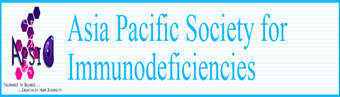
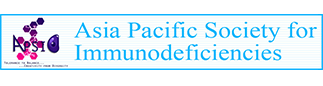
19号上午试运行修改意见

diff --git a/src/view/home/Home.vue b/src/view/home/Home.vue
@@ -53,11 +53,11 @@
               <span>January 20, 2018</span>
               <span>Dear Friends,</span>
               <span style="display: block;margin-top: 1rem">Our Children’s Hospital of Chongqing Medical University has been given the great honor to host the 2th Scientific Congress of Asian Pacific Society for Immunodeficiencies from May 7th to 8th 2018.</span>
-              <span style="display: block;margin-top: 1rem">Primary immunodeficiency disease (PID) is one of the most challenging disease in children. The children with PIDs need care from pediatrician in different field with deep cooperation. So, topic of the 2th Scientific Congress of APSID is Primary Immunodeficiency Diseases and Beyond... </span>
+              <span style="display: block;margin-top: 1rem">Primary immunodeficiency disease (PID) is one of the most challenging disease in children. The children with PIDs need care from pediatrician in different field with deep cooperation. So, topic of the 2th Scientific Congress of APSID is <i style="font-family: 'Helvetica Neue';"><b>Primary Immunodeficiency Diseases and Beyond...</b></i></span>
               <span style="display: block;margin-top: 1rem">We are now planning an exciting scientific program for promoting treatment and research across Primary Immunodeficiency Disease(PID) and associated field such as Hematology, Rheumatology, Allergy, Respiratory diseases and Infection diseases. Accordingly the congress consists of four symposiums: 1) The main Symposium for PID (7th May); 2) Rheumatology and Allergic Diseases (8th May); 3) Respiratory and Infectious Disease (8th May); 4) Hematology and Transplantation (8th May). Professor Hans D. Ochs, Professor Adrian Thrasher, Professor Andrew J Cant, Professor Yu-lung LAU, Professor Surjit Singh, Kohsuke Imai, Professor Professor Alexei Grom, Professor Angelo Ravelli, Professor Lisa Westerberg, Professor Wenwei Tu, Professor Huamei Forsman, Professor Wenxia Song, Professor Kunling Shen and Professor Xiaodong Zhao et al. will give us excellent lectures.</span>
             </div>
             <div class="text-content text-content-right">
-              <span style="display: block;margin-top: 1rem">To training the junior pediatrician, The APSID 2018 Summer School will be inaugurated on the 5th~6th May 2018 at the same hotel, please kindly find the link.</span>
+              <span style="display: block;margin-top: 1rem">To training the junior pediatrician, The APSID 2018 Summer School will be inaugurated on the 5th~6th May 2018 at the same hotel, please kindly find the link(http://www.apsid2018school.com/en/).</span>
               <span style="display: block;margin-top: 1rem">We shall constantly update the web page to inform you how the scientific program is being developed.  Please inform us your suggestions in the next few months.</span>
               <span style="display: block;margin-top: 1rem">As Executive Chief of Committee for the 2nd Scientific Congress of APSID, I sincerely invite you to come to the APSID 2018 Scientific Congress to promote excellence in PID. Please mark the dates in your diary and Chongqing welcomes you!</span>
               <span
@@ -74,7 +74,7 @@
       <el-row>
         <el-col :span="24">
           <div class="text-announcement">
-            <span>Website Link</span>
+            <span>Website Links</span>
           </div>
           <div class="link">
             <div class="link-one">
@@ -273,7 +273,7 @@
   }
 
   .home-text {
-    margin-top: 2rem;
+    margin-top: 1.6rem;
     background: #f15a22;
     background-color: rgba(241, 90, 34, 0.86);
     min-height: 200px;
@@ -287,6 +287,7 @@
   .text-titel h1 {
     color: #ffffff;
     font-size: 1.5rem;
+    font-family: Helvetica;
   }
 
   .text-content-left {
@@ -315,7 +316,7 @@
 
   .link {
     width: 100%;
-    margin-top: 2rem;
+    margin-top: 1.6rem;
   }
 
   .link-one {

diff --git a/src/view/register/RegistrateFee.vue b/src/view/register/RegistrateFee.vue
@@ -22,20 +22,21 @@
           </el-table>
           <div class="fee-box">
             <h3>Registration Fee</h3>
-            <span style="line-height: 2rem; margin-left:0.8rem;float:left;display:block;color: red">*</span>
+            <span style="line-height: 2rem; margin-left:0.8rem;margin-right:0.4rem;float:left;display:block;color: red">*</span>
             <p>
               Registration fee includes registration fee, textbook materials and light lunch costs，While hotel accommodation is not covered.</p>
           </div>
           <div class="fee-box">
             <h3>Bank Draft</h3>
-            <p>1.Account Name：Chongqing swan international tourism co., LTD</p>
-            <p>2.Account No : 113004875475</p>
-            <p>3.Bank Name：The bank of China chongqing branch sales department</p>
-            <p>4.Bank Address :Zhongshan 218 all the way yuzhong district of chongqing</p>
-            <p>5.Swift Code ：BKCHCNBJ59A</p>
+            <P>Registration payment by Bank transfer or on-site payment, Bank transfer is recommended.</P>
+            <p style="padding-left: 2rem;">1.Account Name：Chongqing swan international tourism co., LTD</p>
+            <p style="padding-left: 2rem;">2.Account No : 113004875475</p>
+            <p style="padding-left: 2rem;">3.Bank Name：The bank of China chongqing branch sales department</p>
+            <p style="padding-left: 2rem;">4.Bank Address :Zhongshan 218 all the way yuzhong district of chongqing</p>
+            <p style="padding-left: 2rem;">5.Swift Code ：BKCHCNBJ59A</p>
             <h3>Attention</h3>
             <p>
-              remittors please be sure to indicate in the remittance column "registration NO. +APSID+name" and send cash remittance by the photo file to e-mail anyf82@aliyun.com or zengni-xiao.mao@163.com.</p>
+              remittors please be sure to indicate in the remittance column "Registration Code+APSID+name" and send cash remittance by the photo file to e-mail anyf82@aliyun.com or zengni-xiao.mao@163.com.</p>
           </div>
         </el-card>
       </el-col>
@@ -59,6 +60,10 @@
           {
             RegistrationTime: 'Between 31 March and 6 May',
             RegistrationPayment: 'RMB ¥2000'
+          },
+          {
+            RegistrationTime: 'Attend both summer school and congress',
+            RegistrationPayment: 'RMB ¥2000(summer school)+¥1000(congress)'
           }
         ]
       }

diff --git a/src/view/welcomePage/Speakers.vue b/src/view/welcomePage/Speakers.vue
@@ -98,10 +98,12 @@
               <img src="../../../static/img/speakers/yangxiqiang.jpg"/>
             </div>
             <div class="content-main-font">
-              <h2>Prof.Yiqiang Yang</h2>
-              <span>科教文卫体总工会全国师德优秀个人</span>
-              <span>重庆市优秀专业技术人才</span>
-              <span>亚洲太平洋地区杰出儿科医生</span>
+              <h2>Prof.Xiqiang Yang</h2>
+              <span>Professor of Pediatrics</span>
+              <span>Children’s Hospital,</span>
+              <span>Chonqing Medical University</span>
+              <span>Pre-President</span>
+              <span>Chinese Society of Pediatric Immunology China</span>
             </div>
           </div>
           <div class="content-main">
@@ -136,7 +138,7 @@
               <img src="../../../static/img/speakers/Prof.LisaWesterberg.jpg"/>
             </div>
             <div class="content-main-font">
-              <h2>Prof. Lisa S. Westerberg</h2>
+              <h2>Prof.Lisa S. Westerberg</h2>
               <span>Professor, karolinska institute in Stockholm</span>
               <span>Reviewers of J Exp Med, Blood</span>
             </div>
@@ -157,7 +159,7 @@
               <img src="../../../static/img/speakers/WWTU.jpg"/>
             </div>
             <div class="content-main-font">
-              <h2>Prof. Wenwei TU</h2>
+              <h2>Prof.Wenwei TU</h2>
               <span>Professor Department of Paediatrics & Adolescent Medicine</span>
               <span>Li Ka Shing Faculty of Medicine</span>
               <span>The University of Hong Kong</span>
@@ -179,7 +181,7 @@
               <img src="../../../static/img/speakers/wenxiasong.jpg"/>
             </div>
             <div class="content-main-font">
-              <h2>Prof. Wenxia Song</h2>
+              <h2>Prof.Wenxia Song</h2>
               <span>Professor, Department of cell biology and molecular genetics, University of Maryland professor</span>
               <span>The national major projects of the judges</span>
               <span>The American heart association scientific research funds of the judges team leader</span>

diff --git a/src/components/base/Hearder.vue b/src/components/base/Hearder.vue
@@ -4,10 +4,10 @@
       <el-col :span="24">
         <el-col :span="3" :offset="2">
           <div class="heard-box-logo-left">
-            <img src="../../../static/img/APSID-LOGO.png"/>
+            <img src="../../../static/img/apsid.png"/>
           </div>
         </el-col>
-        <el-col :span="10">
+        <el-col :span="10" :pull="1">
             <div class="heard-box-font heard-box2">
               <span>The 2nd Scientific Congress of Asia-Pacific </span>
             </div>
@@ -16,9 +16,9 @@
               <span>Society for Immunodeficiencies</span>
             </div>
         </el-col>
-        <el-col :span="4">
+        <el-col :span="4" :pull="1">
           <div class="heard-box-logo-right">
-            <img src="../../../static/img/apsid.png"/>
+            <img src="../../../static/img/APSID-LOGO.png"/>
           </div>
         </el-col>
       </el-col>
@@ -51,16 +51,16 @@
   }
 
   .heard-box-logo-left {
-    margin-top: 0.1rem;
+    margin-top: 1rem;
     width: 100%;
     height: 6rem;
     background-size: 100% 100%;
   }
 
   .heard-box-logo-right {
+    margin-top: 0.1rem;
     width: 100%;
     height: 6rem;
-    margin-top: 1rem;
     background-size: 100% 100%;
   }
 
@@ -72,21 +72,15 @@
     display: block;
     text-align: center;
     font-size: 1.5rem;
-    font-family: sans-serif;
+    font-family: Helvetica;
     color: #013763;
     font-weight: bold;
   }
 
   .heard-box-eg span {
     display: block;
-    font-family: sans-serif;
+    font-family: Helvetica;
     font-size: 1.2rem;
     color: #e9669c;
-  }
-
-  .heard-box-userName span {
-    color: #013763;
-    font-size: 1.2rem;
-    font-family: sans-serif;
   }
 </style>

diff --git a/src/view/hotelMap/HotelMap.vue b/src/view/hotelMap/HotelMap.vue
@@ -7,12 +7,19 @@
           <a href="https://www.radissonblu.com/zh/hotel-chongqing" target="_blank"><p style="text-decoration: underline">Radisson Blu Plaza Hotel, Chongqing</p>
           </a>
           <p>
-            Explain：The hotel is arranged, the reservation is made by oneself, the booking form is sent to the designated mailbox on the reservation list, and the price is carried out at the discount price.</p>
+            Instructions: The hotel is arranged, but you need to book a room by filling in and submitting the reservation form to the given email address, you can get a discount price.
+          </p>
+        </div>
+        <div class="map-box-font">
+          <span>Reservation form downloads</span>
+          <a href="../../../static/download/Reservation%20Form(CHCMU).xlsx"><p style="text-decoration: underline">Reservation Form(CHCMU).xlsx</p>
+          </a>
         </div>
         <div class="map-box-font">
           <span>Traffic</span>
-          <p>Service group free bus：2018.5.4/5/6/7/8  There is a trip to the airport in the morning and evening.</p>
-          <p>Taxi：Jiangbei International Airport—Hotel（About:￥60)</p>
+          <p>Service group free bus: 2018.5.4/5/6/7/8</p>
+          <P>There is a shuttle bus to the airport in the morning and evening.</p>
+          <p>Taxi: Jiangbei International Airport-Hotel(About:￥60)</p>
         </div>
       </el-col>
       <el-col :span="12" :offset="2">

diff --git a/src/view/register/Register.vue b/src/view/register/Register.vue
@@ -6,6 +6,9 @@
           <div slot="header" class="clearfix">
             <span>Registration Information Table</span>
           </div>
+          <p style="color: #606266;margin-top: 0.8rem;margin-bottom: 1.2rem;">
+            <span style="color: #f15a22;margin-right: 0.2rem">*</span>Instructions: After submission, please check email for confirmation and get the identical Registration Code.
+          </p>
           <el-form ref="registerForm" :model="registerForm" :rules="rules" :inline="true">
             <el-form-item label="First Name" prop="firstname">
               <el-input v-model="registerForm.firstname"></el-input>

diff --git a/src/view/about/AboutPage.vue b/src/view/about/AboutPage.vue
@@ -47,7 +47,7 @@ Monument for Liberation records the history and culture of Chongqing, supporting
           </div>
           <div class="content-main">
             <div class="content-main-img">
-              <h2>Three Gorges</h2>
+              <h2>Dazu Rock Carvings</h2>
               <img src="../../../static/img/about/DZSK.jpg"/>
             </div>
             <div class="content-main-box content-main-box-4">

diff --git a/src/components/base/Footer.vue b/src/components/base/Footer.vue
@@ -36,7 +36,7 @@
 <style scoped>
   .footer-box {
     width: 100%;
-    margin-top: 2rem;
+    margin-top: 1.6rem;
     height: 6rem;
     background: #00aec9;
   }
